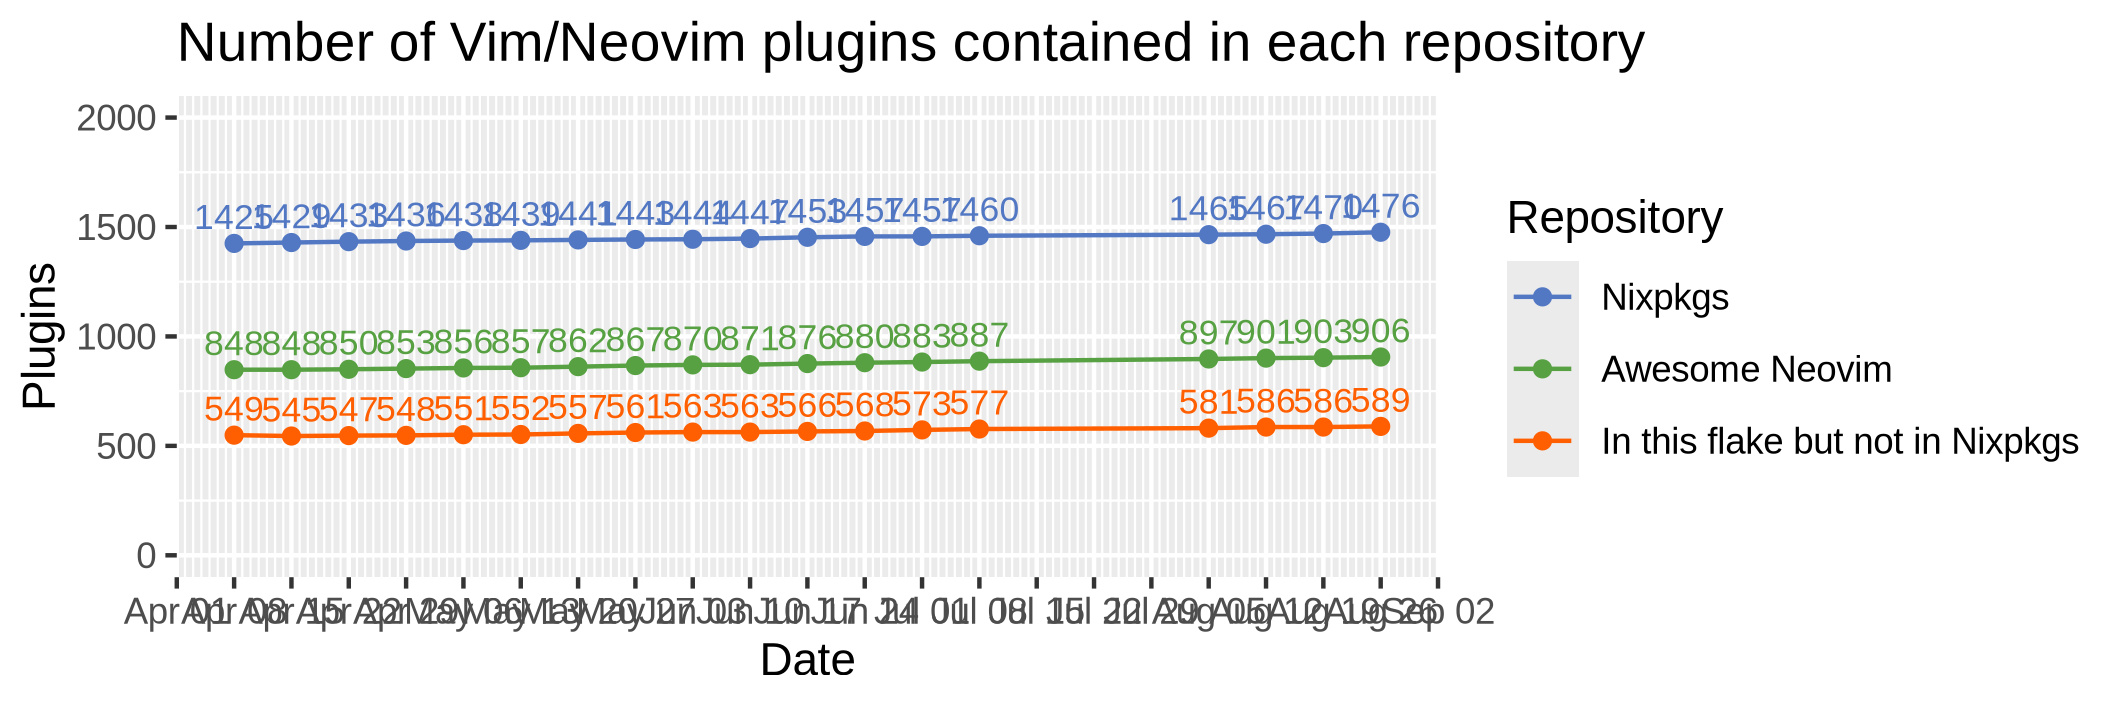
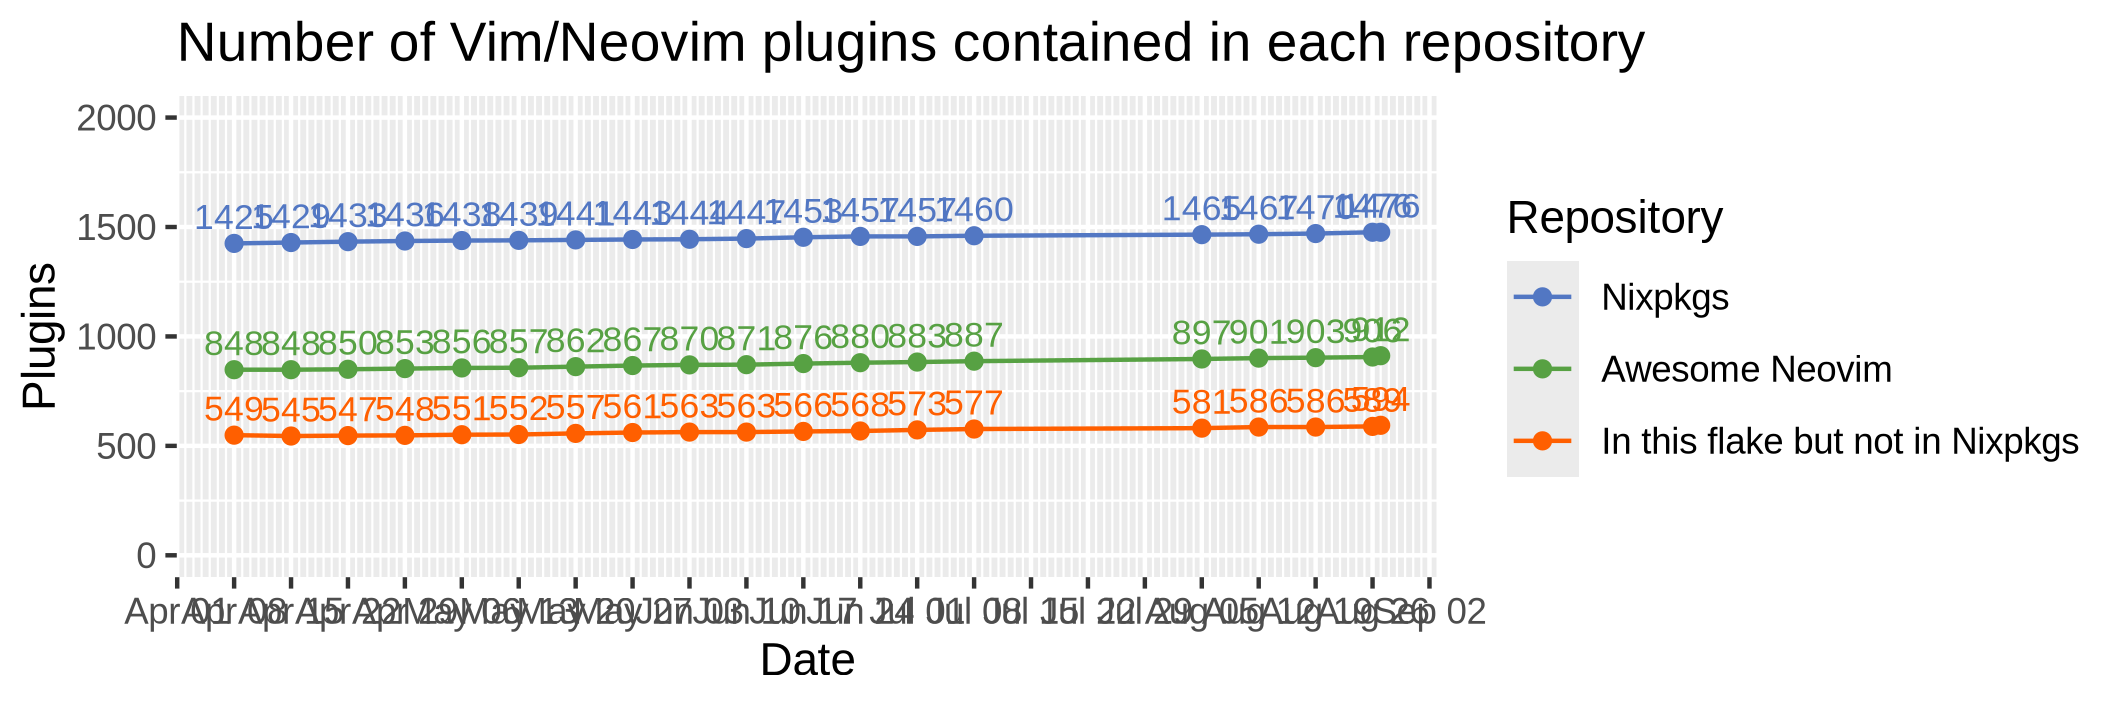
auto: update vim plugins

diff --git a/README.md b/README.md
@@ -8,7 +8,7 @@ Nix flake of Awesome Neovim plugins.
 
 [b1]: https://img.shields.io/github/actions/workflow/status/m15a/flake-awesome-neovim-plugins/check.yml?style=flat-square&logo=github&label=CI
 [b2]: https://github.com/m15a/flake-awesome-neovim-plugins/actions/workflows/check.yml
-[b3]: https://img.shields.io/badge/Awesome_Neovim_plugins-906-57A143?style=flat-square
+[b3]: https://img.shields.io/badge/Awesome_Neovim_plugins-912-57A143?style=flat-square
 [b4]: https://img.shields.io/endpoint?url=https://flakehub.com/f/m15a/flake-awesome-neovim-plugins/badge&style=flat-square
 [b5]: https://flakehub.com/flake/m15a/flake-awesome-neovim-plugins
 
